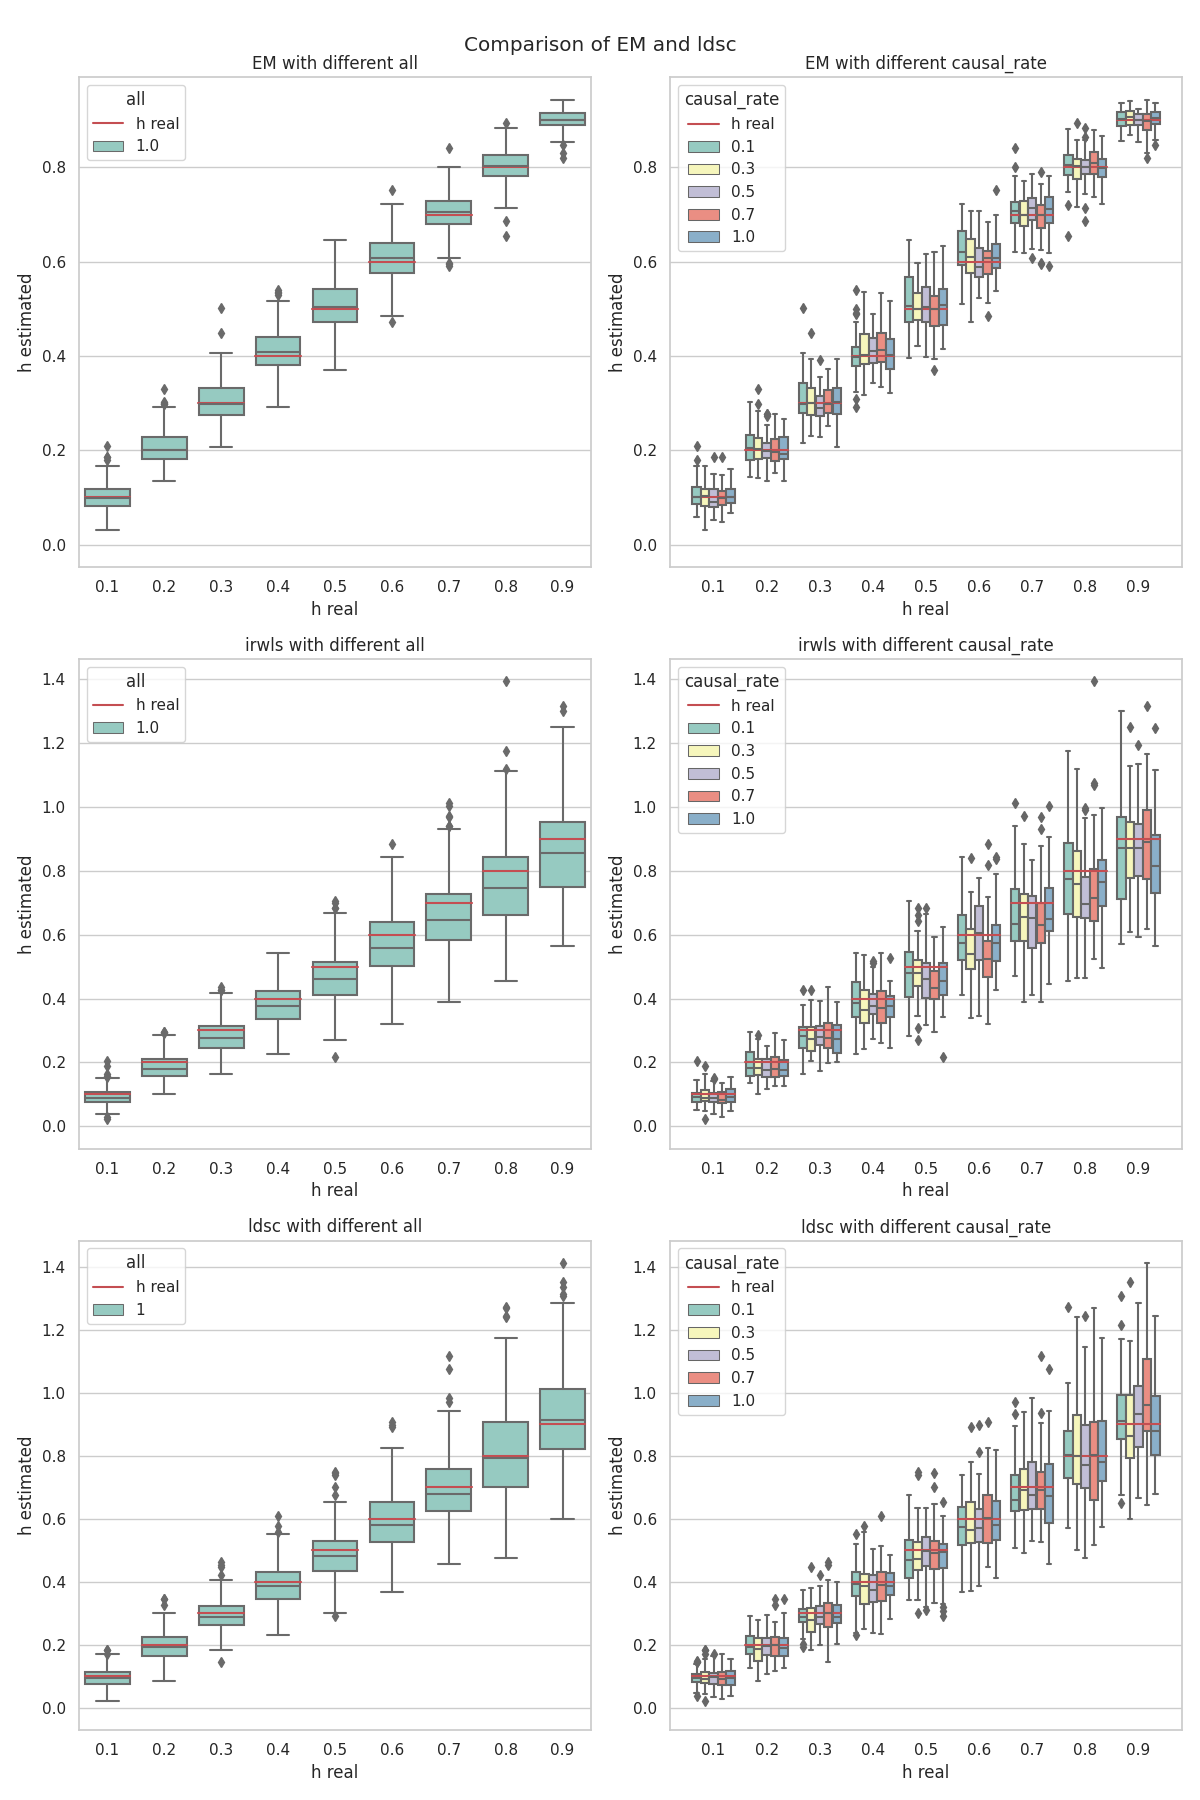
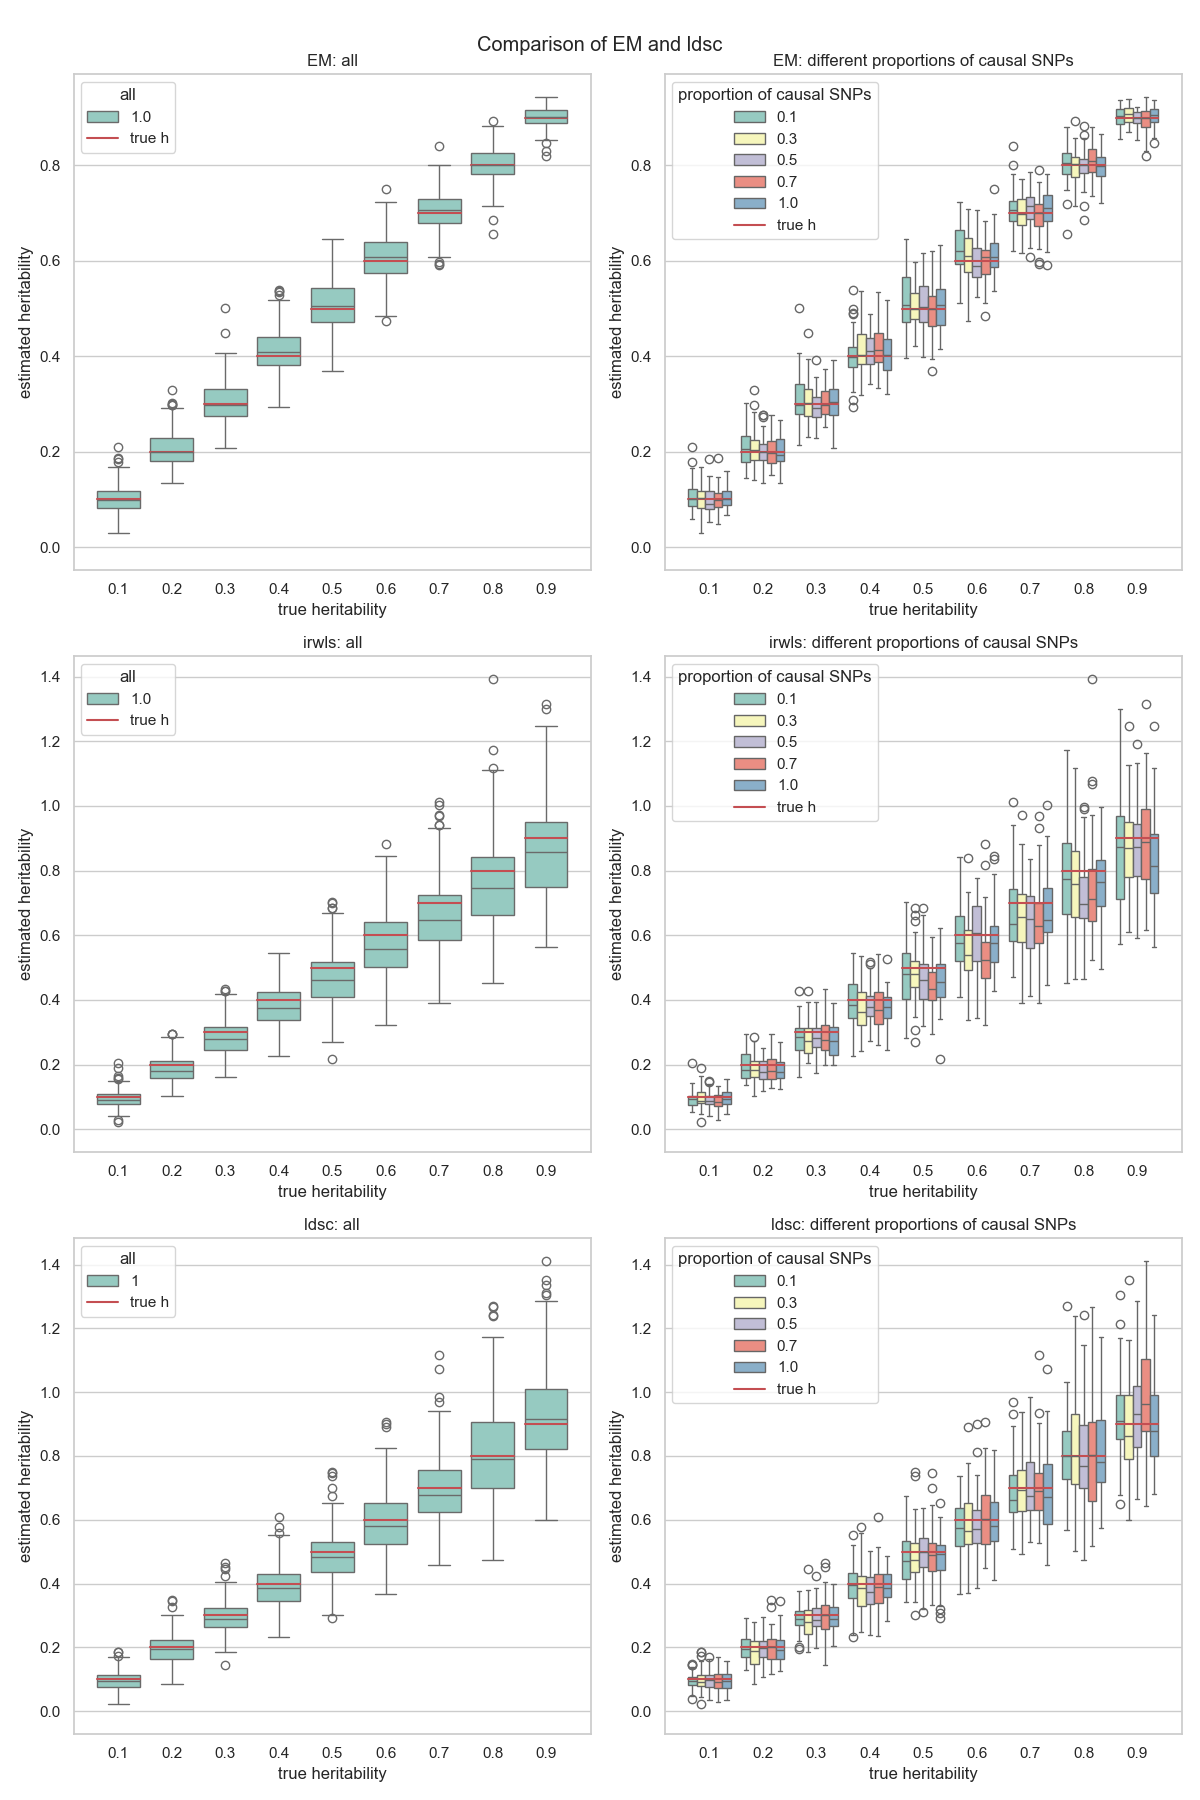
[mod] label in visualize.py and gen new fig for result

diff --git a/visualize.py b/visualize.py
@@ -28,12 +28,15 @@ def visualize(df, algo, by, fig, ax):
     # draw the h line for each x
     for i in range(len(h_list)):
         ax.plot([i - 0.4, i + 0.4], [h_list[i], h_list[i]], "r-")
-    ax.plot(0, 0, "r-", label="h real")
+    ax.plot(0, 0, "r-", label="true h")
     if by == "sigma_beta":
         by = "all"
-    ax.set_title(algo + ": " + by)
-    ax.set_xlabel("h real")
-    ax.set_ylabel("h estimated")
+        ax.set_title(algo + ": " + by)
+    elif by == "causal_rate":
+        by = "proportion of causal SNPs"
+        ax.set_title(algo + ": different proportions of causal SNPs")
+    ax.set_xlabel("true heritability")
+    ax.set_ylabel("estimated heritability")
     ax.legend(title=by)
 
 

diff --git a/README.md b/README.md
@@ -1,5 +1,7 @@
 # Compare the Result of EM and LDSC
 
+<!-- TODO: random effects model下面heritability 的定义和用EM和ldsc估计heritability的数学推导，参考VCM的文档 -->
+
 - [Compare the Result of EM and LDSC](#compare-the-result-of-em-and-ldsc)
   - [Introduction](#introduction)
   - [Structure](#structure)
